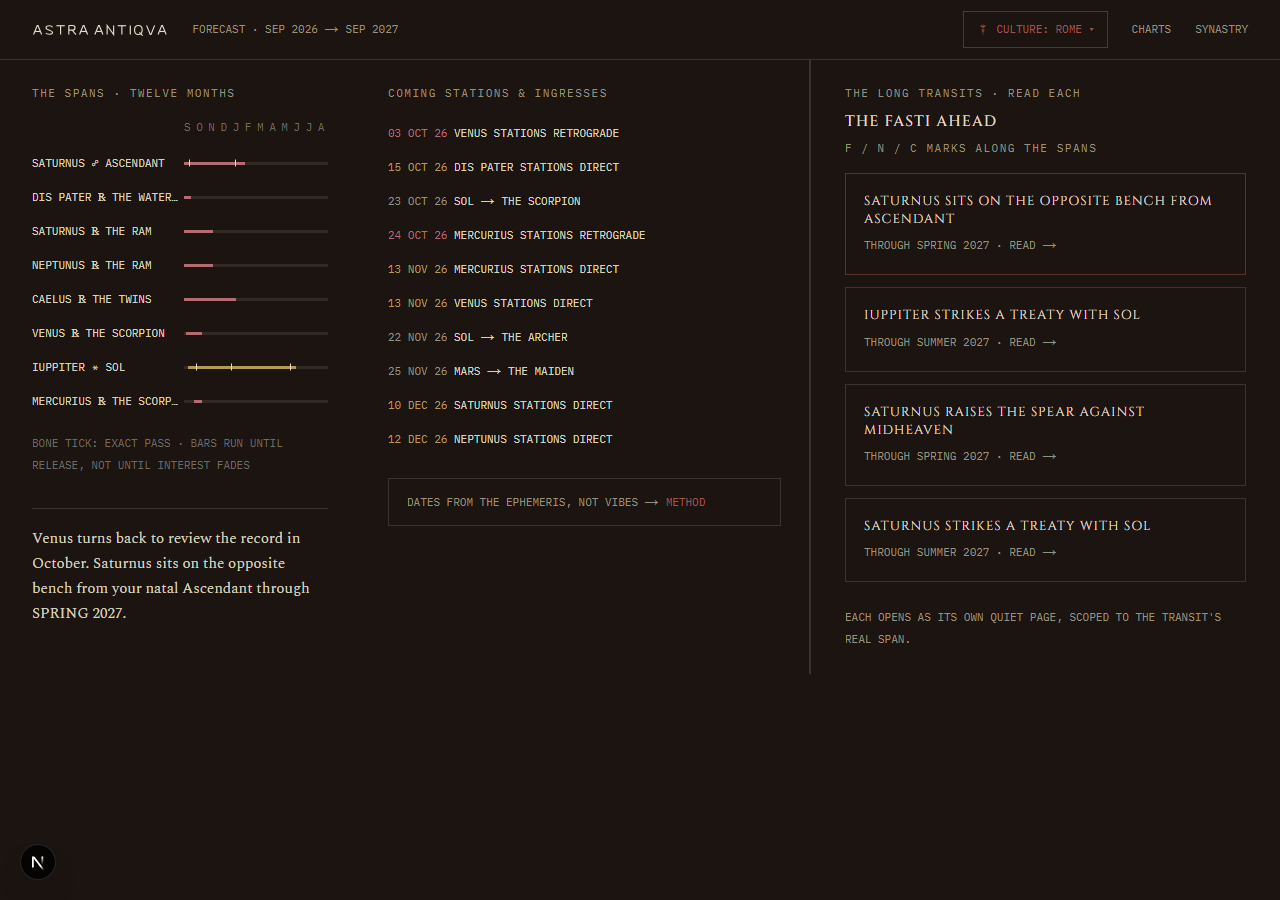
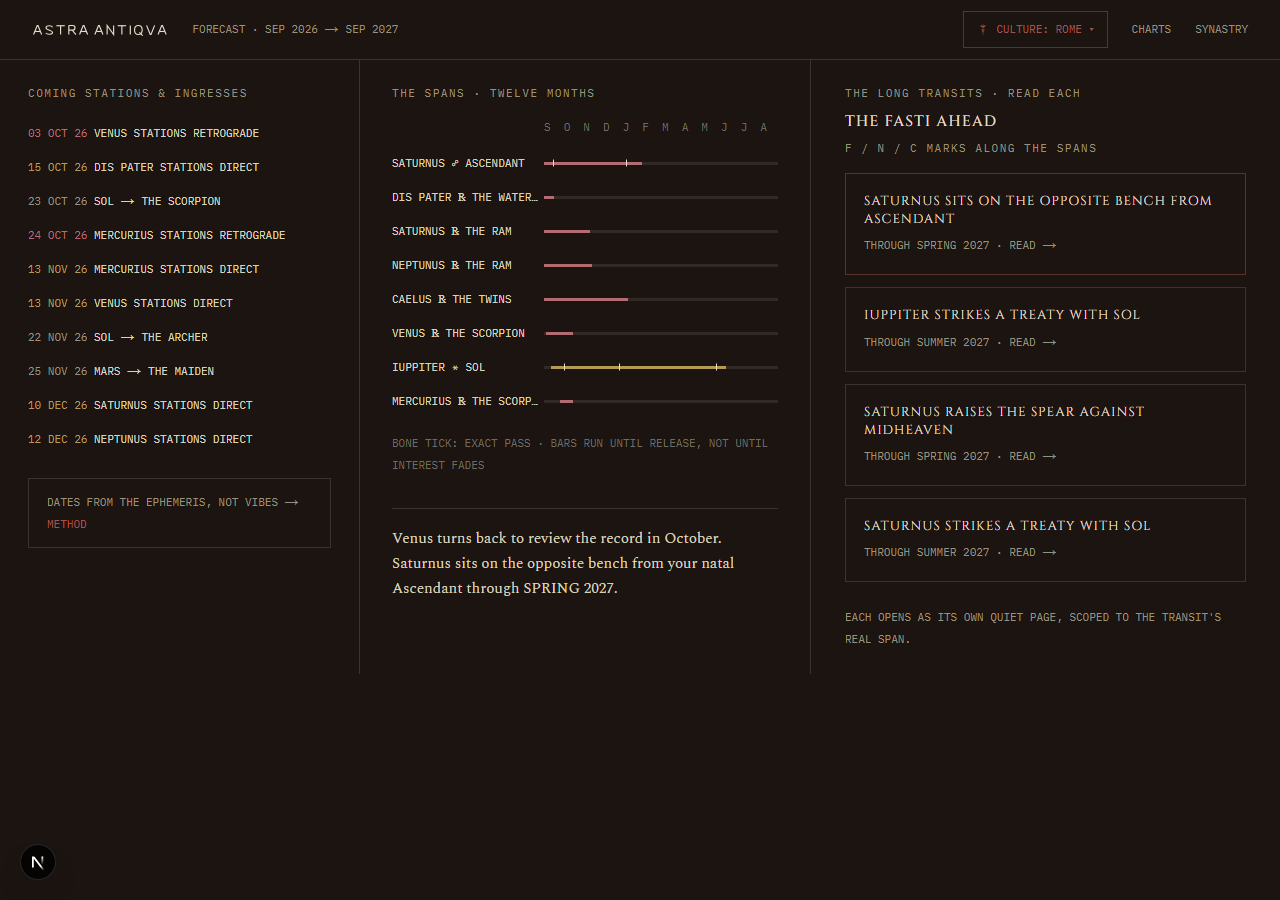
fix(web): the instrument's columns take the order the handoff drew
The stacked view's reorder utilities outranked the desktop reset, so
every desktop width showed visualization, data, reading. The reorder
now applies only below the breakpoint (max-instrument:). The token
moves to rem and to 68.75rem (1100px), re-measured with the placements
in the data rail. The radius and backdrop gates also catch style-object
keys, corner longhands and Tailwind classes. The evidence, the report
and the specimen stylesheet follow.

diff --git a/docs/design/system/components/previews/specimen.css b/docs/design/system/components/previews/specimen.css
@@ -19,6 +19,7 @@
     --default-font-family: var(--font-sans);
     --default-mono-font-family: var(--font-mono);
     --radius: 0px;
+    --breakpoint-instrument: 68.75rem;
     --color-ground-neutral: #171310;
     --color-ground-egypt: #1a1712;
     --color-ground-greece: #171a1c;
@@ -285,6 +286,9 @@
     }
     @media (width >= 64rem) {
       max-width: 64rem;
+    }
+    @media (width >= 68.75rem) {
+      max-width: 68.75rem;
     }
     @media (width >= 80rem) {
       max-width: 80rem;
@@ -778,6 +782,9 @@
   }
   .rounded {
     border-radius: var(--radius);
+  }
+  .rounded-none {
+    border-radius: 0;
   }
   .border {
     border-style: var(--tw-border-style);
@@ -1351,6 +1358,11 @@
   .filter {
     filter: var(--tw-blur,) var(--tw-brightness,) var(--tw-contrast,) var(--tw-grayscale,) var(--tw-hue-rotate,) var(--tw-invert,) var(--tw-saturate,) var(--tw-sepia,) var(--tw-drop-shadow,);
   }
+  .backdrop-blur {
+    --tw-backdrop-blur: blur(8px);
+    -webkit-backdrop-filter: var(--tw-backdrop-blur,) var(--tw-backdrop-brightness,) var(--tw-backdrop-contrast,) var(--tw-backdrop-grayscale,) var(--tw-backdrop-hue-rotate,) var(--tw-backdrop-invert,) var(--tw-backdrop-opacity,) var(--tw-backdrop-saturate,) var(--tw-backdrop-sepia,);
+    backdrop-filter: var(--tw-backdrop-blur,) var(--tw-backdrop-brightness,) var(--tw-backdrop-contrast,) var(--tw-backdrop-grayscale,) var(--tw-backdrop-hue-rotate,) var(--tw-backdrop-invert,) var(--tw-backdrop-opacity,) var(--tw-backdrop-saturate,) var(--tw-backdrop-sepia,);
+  }
   .backdrop-filter {
     -webkit-backdrop-filter: var(--tw-backdrop-blur,) var(--tw-backdrop-brightness,) var(--tw-backdrop-contrast,) var(--tw-backdrop-grayscale,) var(--tw-backdrop-hue-rotate,) var(--tw-backdrop-invert,) var(--tw-backdrop-opacity,) var(--tw-backdrop-saturate,) var(--tw-backdrop-sepia,);
     backdrop-filter: var(--tw-backdrop-blur,) var(--tw-backdrop-brightness,) var(--tw-backdrop-contrast,) var(--tw-backdrop-grayscale,) var(--tw-backdrop-hue-rotate,) var(--tw-backdrop-invert,) var(--tw-backdrop-opacity,) var(--tw-backdrop-saturate,) var(--tw-backdrop-sepia,);
@@ -1561,11 +1573,6 @@
       }
     }
   }
-  .min-\[720px\]\:col-span-3 {
-    @media (width >= 720px) {
-      grid-column: span 3 / span 3;
-    }
-  }
   .min-\[720px\]\:flex {
     @media (width >= 720px) {
       display: flex;
@@ -1579,35 +1586,6 @@
   .min-\[720px\]\:inline {
     @media (width >= 720px) {
       display: inline;
-    }
-  }
-  .min-\[720px\]\:grid-cols-\[minmax\(340px\,360px\)_1fr_minmax\(380px\,470px\)\] {
-    @media (width >= 720px) {
-      grid-template-columns: minmax(340px,360px) 1fr minmax(380px,470px);
-    }
-  }
-  .min-\[720px\]\:border-t-0 {
-    @media (width >= 720px) {
-      border-top-style: var(--tw-border-style);
-      border-top-width: 0px;
-    }
-  }
-  .min-\[720px\]\:border-r {
-    @media (width >= 720px) {
-      border-right-style: var(--tw-border-style);
-      border-right-width: 1px;
-    }
-  }
-  .min-\[720px\]\:border-b-0 {
-    @media (width >= 720px) {
-      border-bottom-style: var(--tw-border-style);
-      border-bottom-width: 0px;
-    }
-  }
-  .min-\[720px\]\:border-l {
-    @media (width >= 720px) {
-      border-left-style: var(--tw-border-style);
-      border-left-width: 1px;
     }
   }
   .min-\[1100px\]\:block {
@@ -1794,31 +1772,64 @@
       font-size: var(--text-prose-s);
     }
   }
+  .instrument\:col-span-3 {
+    @media (width >= 68.75rem) {
+      grid-column: span 3 / span 3;
+    }
+  }
+  .instrument\:grid-cols-\[minmax\(340px\,360px\)_1fr_minmax\(380px\,470px\)\] {
+    @media (width >= 68.75rem) {
+      grid-template-columns: minmax(340px,360px) 1fr minmax(380px,470px);
+    }
+  }
+  .instrument\:border-t-0 {
+    @media (width >= 68.75rem) {
+      border-top-style: var(--tw-border-style);
+      border-top-width: 0px;
+    }
+  }
+  .instrument\:border-r {
+    @media (width >= 68.75rem) {
+      border-right-style: var(--tw-border-style);
+      border-right-width: 1px;
+    }
+  }
+  .instrument\:border-b-0 {
+    @media (width >= 68.75rem) {
+      border-bottom-style: var(--tw-border-style);
+      border-bottom-width: 0px;
+    }
+  }
+  .instrument\:border-l {
+    @media (width >= 68.75rem) {
+      border-left-style: var(--tw-border-style);
+      border-left-width: 1px;
+    }
+  }
   .\[\&\:not\(\:last-child\)\]\:mb-\[var\(--space-3\)\] {
     &:not(:last-child) {
       margin-bottom: var(--space-3);
     }
   }
-  .min-\[720px\]\:\[\&\>\*\]\:order-none {
-    @media (width >= 720px) {
-      &>* {
-        order: 0;
+  .max-instrument\:\[\&\>\*\:nth-child\(1\)\]\:order-2 {
+    @media (width < 68.75rem) {
+      &>*:nth-child(1) {
+        order: 2;
       }
     }
   }
-  .\[\&\>\*\:nth-child\(1\)\]\:order-2 {
-    &>*:nth-child(1) {
-      order: 2;
+  .max-instrument\:\[\&\>\*\:nth-child\(2\)\]\:order-1 {
+    @media (width < 68.75rem) {
+      &>*:nth-child(2) {
+        order: 1;
+      }
     }
   }
-  .\[\&\>\*\:nth-child\(2\)\]\:order-1 {
-    &>*:nth-child(2) {
-      order: 1;
-    }
-  }
-  .\[\&\>\*\:nth-child\(3\)\]\:order-3 {
-    &>*:nth-child(3) {
-      order: 3;
+  .max-instrument\:\[\&\>\*\:nth-child\(3\)\]\:order-3 {
+    @media (width < 68.75rem) {
+      &>*:nth-child(3) {
+        order: 3;
+      }
     }
   }
 }

diff --git a/web/src/components/chrome/InstrumentShell.tsx b/web/src/components/chrome/InstrumentShell.tsx
@@ -19,11 +19,12 @@ export interface InstrumentShellProps {
  * sibling-tool links) over a 3-column grid. Children are expected to be the
  * three column elements in DOM order (data rail, visualization, reading
  * rail). Below the `instrument` breakpoint (--breakpoint-instrument in
- * globals.css, 1200px) the grid stacks to one column and re-orders the
- * children center-first, so the reading never sits under two rails' worth of
- * scroll. The rails' minimum widths sum to 720px, and the placements table
- * needs the center column wider than that leaves, so the three columns wait
- * for 1200px, the smallest width measured that shows every body name whole.
+ * globals.css, 68.75rem = 1100px) the grid stacks to one column and the
+ * `max-instrument:` order utilities put the center first, so the reading never
+ * sits under two rails' worth of scroll. At and above the breakpoint no order
+ * rule applies, so the columns keep DOM order. The placements table needs the
+ * data rail at its 360px maximum, and 1100px is the smallest width measured
+ * that gives it that and shows every body name whole.
  * ChartsInstrument keys off the same token.
  */
 export function InstrumentShell({ children, context, siblings }: InstrumentShellProps) {
@@ -51,8 +52,7 @@ export function InstrumentShell({ children, context, siblings }: InstrumentShell
         className={[
           "grid grid-cols-1",
           "instrument:grid-cols-[minmax(340px,360px)_1fr_minmax(380px,470px)]",
-          "[&>*:nth-child(1)]:order-2 [&>*:nth-child(2)]:order-1 [&>*:nth-child(3)]:order-3",
-          "instrument:[&>*]:order-none",
+          "max-instrument:[&>*:nth-child(1)]:order-2 max-instrument:[&>*:nth-child(2)]:order-1 max-instrument:[&>*:nth-child(3)]:order-3",
         ].join(" ")}
       >
         {children}

diff --git a/web/src/app/globals.css b/web/src/app/globals.css
@@ -2,7 +2,7 @@
 
 @theme {
   /* The instrument's one breakpoint (instrument: variant); see InstrumentShell. */
-  --breakpoint-instrument: 1200px;
+  --breakpoint-instrument: 68.75rem;
 
   /* "The Instrument in the Temple" tokens (docs/design/handoff/tokens.css). */
 

diff --git a/docs/web-rebrand-report.md b/docs/web-rebrand-report.md
@@ -118,8 +118,8 @@ unless the name says otherwise. "Seeded" means a reader with the Rome 1990-06-15
 | Five voices | `voices-home-{egypt,greece,canaan,carthage,rome}-1280.png` | seeded, same day |
 | Responsive | `{home,week,charts-seeded,transits-saturn-opposition-asc}-rome-{375,768}.png` | seeded |
 | Instrument, tablet | `{charts,synastry,forecast}-seeded-rome-768.png` | seeded, stacked to one column |
-| Instrument, breakpoint | `{charts,synastry,forecast}-seeded-rome-1200.png` | seeded, three columns, names whole |
-| Charts, empty, responsive | `charts-empty-rome-{768,1200}.png` | onboarded, no chart |
+| Instrument, breakpoint | `{charts,synastry,forecast}-seeded-rome-1100.png` | seeded, three columns (data, visualization, reading), names whole |
+| Charts, empty, responsive | `charts-empty-rome-{768,1100}.png` | onboarded, no chart |
 
 The Next dev indicator (the "N" badge, bottom left) appears in every capture. It is a dev-server
 overlay and does not ship.
@@ -158,33 +158,47 @@ documents it.
 `web/scripts/screenshot.mjs --report-scroll` compares `document.documentElement.scrollWidth`
 with the viewport width after load.
 
-| Page (seeded) | 375 | 768 | 1200 | 1280 |
+| Page (seeded) | 375 | 768 | 1100 | 1280 |
 |---------------|-----|-----|------|------|
 | `/` | 375 / 375, pass | 768 / 768, pass | n/a | pass |
 | `/week` | 375 / 375, pass | 768 / 768, pass | n/a | pass |
-| `/charts` | 375 / 375, pass | 768 / 768, pass | 1200 / 1200, pass | 1280 / 1280, pass |
-| `/synastry` | n/a | 768 / 768, pass | 1200 / 1200, pass | 1280 / 1280, pass |
-| `/forecast` | n/a | 768 / 768, pass | 1200 / 1200, pass | 1280 / 1280, pass |
-| `/charts`, empty (onboarded, no chart) | n/a | 768 / 768, pass | 1200 / 1200, pass | n/a |
+| `/charts` | 375 / 375, pass | 768 / 768, pass | 1100 / 1100, pass | 1280 / 1280, pass |
+| `/synastry` | n/a | 768 / 768, pass | 1100 / 1100, pass | 1280 / 1280, pass |
+| `/forecast` | n/a | 768 / 768, pass | 1100 / 1100, pass | 1280 / 1280, pass |
+| `/charts`, empty (onboarded, no chart) | n/a | 768 / 768, pass | 1100 / 1100, pass | n/a |
 | `/transits/saturn-opposition-asc` | 375 / 375, pass | 768 / 768, pass | n/a | pass |
 
 No page scrolls sideways at 375, which is the bar the plan set. The instrument rows were
-measured with `?culture=rome` at 768x1024 and 1200x800, scale 1, and `--report-scroll` printed
-"no horizontal scroll" for every run. The 1280 layout is unchanged, since 1280 is above the
-breakpoint. The empty `/charts` state renders its message centred at full width at 768 and at
-1200, so the `col-span-3` states span the whole grid when three columns are active.
+measured with `?culture=rome` at 768x1024 and 1100x800, scale 1, and `--report-scroll` printed
+"no horizontal scroll" for every run. The 1280 captures (1280x900) were retaken after the
+column-order fix below. The empty `/charts` state renders its message centred at full width at
+768 and at 1100, so the `col-span-3` states span the whole grid when three columns are active.
 
-**Found and fixed: the instrument overflowed between 720 and about 1200.** These captures
+**Found and fixed: the instrument overflowed between 720 and its breakpoint.** These captures
 found it in two steps. `InstrumentShell` switched to three columns at 720px, but the two side
 columns alone need 720px, so at 768 `/charts` measured 1023 wide, `/synastry` 904 and
 `/forecast` 881. A first fix moved the switch to 1024px, which stopped the scroll but left the
-placements table with one letter per body name and a clipped "BODY" header. Trial captures at
-1100 and 1152 still clipped the names ("SOL", "LU...", "ME..."); 1200 shows every name whole.
-The commit `fix(web): one instrument breakpoint, wide enough for the placements` defines the
-width once as `--breakpoint-instrument: 1200px` in `globals.css`, and `InstrumentShell` and
+placements table with one letter per body name and a clipped "BODY" header. The commit
+`fix(web): one instrument breakpoint, wide enough for the placements` then defined the width
+once as `--breakpoint-instrument` in `globals.css`, at 1200px, and `InstrumentShell` and
 `ChartsInstrument` both use the `instrument:` variant, so the asides' stacked separators and
-the full-width empty states follow the same width as the grid. Below 1200 the instrument is one
-column, centre first; at 768 all three pages measure 768.
+the full-width empty states follow the same width as the grid.
+
+**Found and fixed: the column order was wrong at every desktop width.** The whole-branch review
+found that the three columns rendered visualization, data, reading at 1280 and above, where
+the handoff draws data, visualization, reading. The stacked view's reorder utilities
+(`[&>*:nth-child(n)]:order-*`, specificity 0,2,0) outranked the desktop reset
+(`instrument:[&>*]:order-none`, 0,1,0), so the reset never applied. The 1200px measurement
+above was taken on that wrong layout, with the placements table in the centre column. The fix
+scopes the reorder to `max-instrument:`, so the built CSS wraps it in
+`@media (width < 68.75rem)` and the desktop keeps DOM order. The breakpoint was then measured
+again with the placements in the 340 to 360px data rail: `/charts` seeded at 1024, 1100, 1152
+and 1200 with the token lowered so all four rendered three columns. At 1024 the rail sits
+near its 340px minimum and clips "MERCUR...", "IUPPIT...", "SATURN...", "NEPTUN..." and
+"DIS PA...", and `/forecast` measures 1037 wide. At 1100, 1152 and 1200 every body name shows
+whole and `/charts`, `/synastry` and `/forecast` all measure their viewport width. The token
+is now `68.75rem` (1100px), in rem so it orders against Tailwind's rem breakpoints. Below 1100
+the instrument is one column, centre first; at 768 all three pages measure 768.
 
 ## Redirects
 

diff --git a/docs/design/IMPLEMENTATION.md b/docs/design/IMPLEMENTATION.md
@@ -17,7 +17,7 @@ drawn: nothing here was redrawn, restyled or replaced.
 | `c707b40` | The tier-2 emblems on the doorways, the chip and the matrix |
 | `eba8d47` | The shared components, and the scale on every surface |
 | `a47a778` | `DeityGlyph` takes a `decorative` prop, set where the deity's name sits beside the glyph |
-| `f62c971`, `a810581` | One `--breakpoint-instrument: 1200px` token; the instrument stacks below it |
+| `f62c971`, `a810581` | One `--breakpoint-instrument` token; the instrument stacks below it (now `68.75rem`, 1100px) |
 
 **The glyphs.** `web/scripts/export-glyphs.mjs` copies the fifty SVGs into
 `web/src/glyphs` and generates the typed module the app reads, asserting the 24
@@ -240,9 +240,13 @@ motion is unavoidable, so the fade stays.
 
 **The instrument stacks below one breakpoint.** At tablet widths the
 three-column instrument scrolled sideways. `f62c971` and `a810581` add one
-`--breakpoint-instrument: 1200px` token in `globals.css`, read as the
-`instrument:` variant by `InstrumentShell` and `ChartsInstrument`. The value is
-the measured width at which the placements table shows full body names.
+`--breakpoint-instrument` token in `globals.css`, read as the `instrument:`
+variant by `InstrumentShell` and `ChartsInstrument`. Those commits set it to
+1200px, measured while a specificity bug put the placements in the centre
+column. With the columns in the handoff's order (data, visualization, reading),
+the re-measured value is `68.75rem` (1100px): the smallest trial width at
+which the data rail shows every body name whole and no instrument page scrolls
+sideways. `docs/web-rebrand-report.md` records the trials.
 
 **The zodiac notation needed a fourth face.** None of the three product faces
 carries those codepoints, so Android's font chain fell through to the colour

diff --git a/web/README.md b/web/README.md
@@ -204,9 +204,12 @@ npm run gates
 ```
 
 Scans `src/` for em dashes, banned terms (`inter`, `roboto`, `harness`,
-"unlock your", "discover your"), `framer-motion` imports, `backdrop-filter`,
-and any `border-radius` other than `0` or `0px`, and exits non-zero with a
-`file:line` list. Run it alongside `npm run typecheck` and
+"unlock your", "discover your"), `framer-motion` imports, backdrop filters
+(`backdrop-filter`, the `backdropFilter` style key, Tailwind `backdrop-blur`),
+and radius: `border-radius` or a corner longhand other than `0`, `0px` or
+`0 !important`, a non-zero `borderRadius` style key, and any Tailwind
+`rounded` class except `rounded-none`. It exits non-zero with a `file:line`
+list. Run it alongside `npm run typecheck` and
 `npm run lint` before every commit.
 
 ## Routes

diff --git a/docs/shared-content-model.md b/docs/shared-content-model.md
@@ -135,7 +135,7 @@ as product commitments (whole-sign houses are named on `/learn`).
    Nun/Poseidon/Yammu/Yam/Neptunus, Osiris/Plouton/Motu/Mot/Dis Pater), each
    carrying a note that opens "Received:" and a `/method` statement that the
    extension is modern work made in the ancient manner. ~~Android is still
-   7-planet~~ — resolved: `Planet` carries all ten with an
+   7-planet~~. Resolved: `Planet` carries all ten with an
    `isReceived` flag, `DeityRegistry` holds the fifteen receptions ported from
    `shared/content/deities.json`, and the placement text comes from the same
    generated corpus rather than being re-authored.
